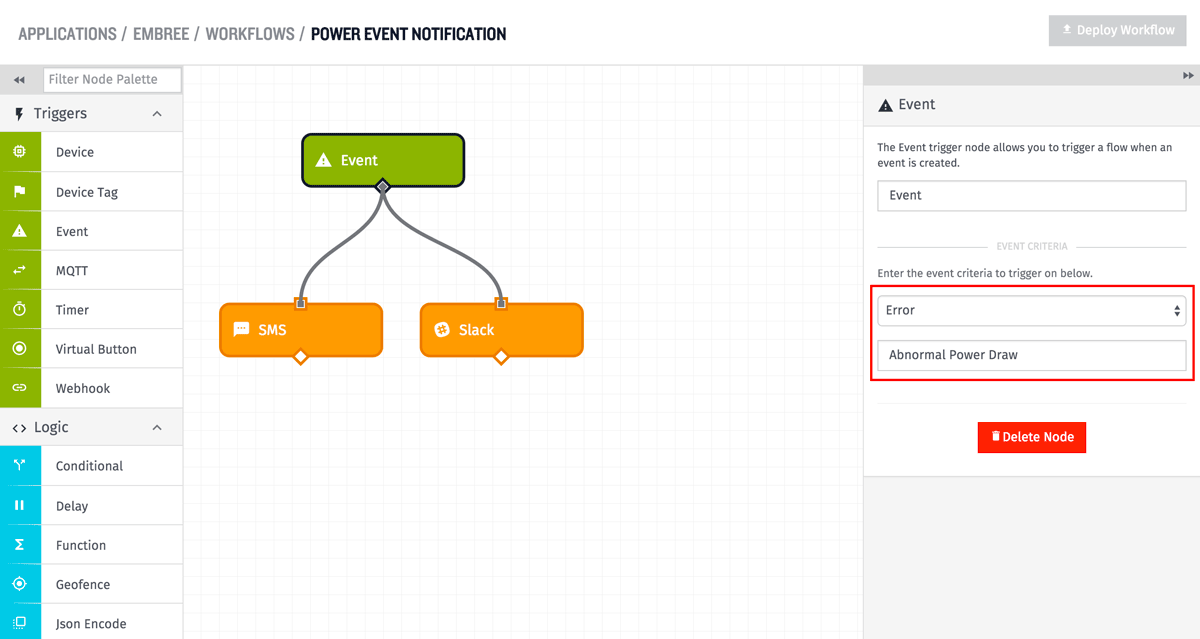
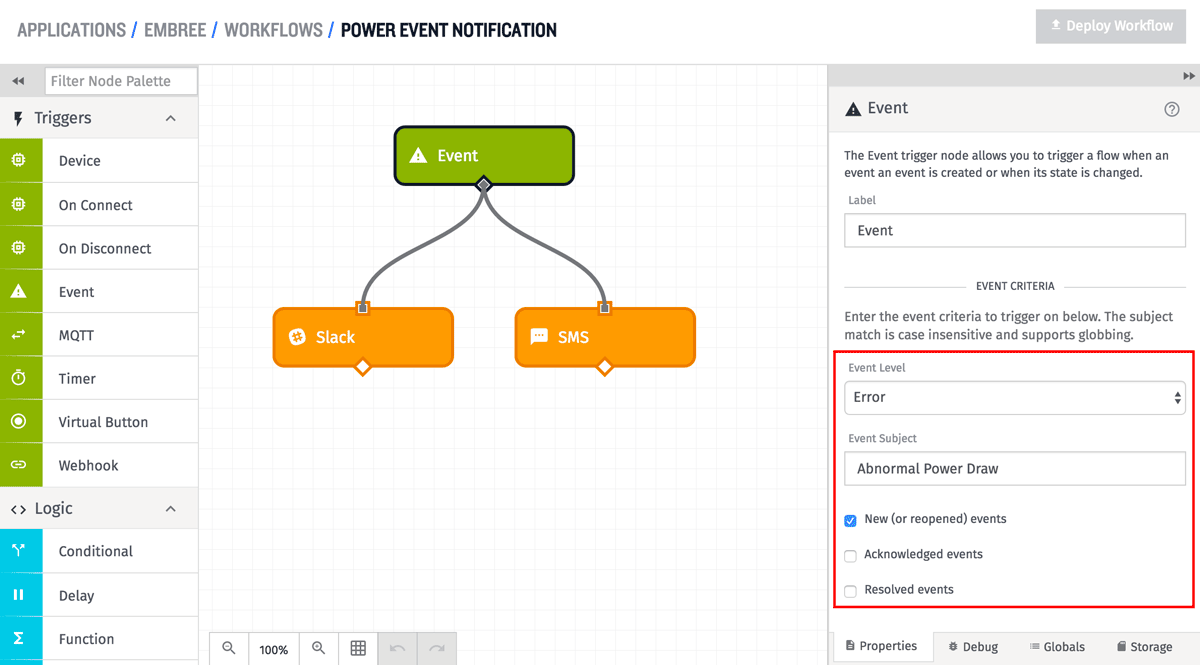
update event trigger docs

diff --git a/docs/workflows/triggers/event.md b/docs/workflows/triggers/event.md
@@ -1,16 +1,16 @@
 # Event Trigger
 
-The event trigger will trigger a workflow whenever a newly created event matches the criteria defined in its configuration.
+The event trigger will trigger a workflow whenever an event is created or changes state that matches the criteria defined in its configuration.
 
 ![Event Trigger](/images/workflows/triggers/event-trigger.png "Event Trigger")
 
 ## Configuration
 
-There are two configurable criteria for matching events, the "level" of the event, and the "subject" of the event.  At least one of the criteria must be specified, so, for example, if "Any Level" is selected for matching the event level, then an event subject must be specified to match against.  Event subjects are matched using exact string matching, so be sure to match capitalization.
+There are three configurable criteria for matching events, the "level" of the event, the "subject" of the event, and the "state" of the event. Event subjects use case insensitive matching, with support for globing.
 
 ![Event Trigger Config](/images/workflows/triggers/event-trigger-config.png "Event Trigger Config")
 
-In the above example, the workflow will be triggered whenever any event is created that is of the "Error" level and has the subject "Abnormal Power Draw".
+In the above example, the workflow will be triggered whenever any event is created or placed in the "new" state that is of the "Error" level and has the subject "Abnormal Power Draw".
 
 ## Payload
 
@@ -20,13 +20,17 @@ The payload will include information about the event on the `data` field, as wel
 {
   "time": <time of the event>,
   "data": {
-    "sourceType": <"flow" or "user" or "device">,
-    "sourceId":   <id of the source>,
-    "level":      <event level - "critical" / "error" / "warning" / "info">,
-    "subject":    <subject of the event>,
-    "message":    <detailed event message>,
-    "state":      "new",
-    "id":         <event id>
+    "id":           <event id>
+    "creationDate": <creation date of the event>
+    "sourceType":   <"flow" or "user" or "device">,
+    "sourceId":     <id of the source>,
+    "level":        <event level - "critical" / "error" / "warning" / "info">,
+    "state":        <current state of the event - "new" / "acknowledged" / "resolved">,
+    "subject":      <subject of the event>,
+    "message":      <detailed event message>,
+    "data":         <structured data attached to the event>,
+    "allUpdates":   <array of all updates to this event>,
+    "latestUpdate": <most recent update to this event>
   },
   "applicationId": <id of the current application>,
   "triggerId": <id of the workflow trigger>,
@@ -41,16 +45,20 @@ For the example workflow above, a specific payload for a triggered workflow migh
 {
   "time": Fri Feb 19 2016 17:26:00 GMT-0500 (EST),
   "data": {
-    "sourceType": "flow",
-    "sourceId":   "56c794a06895b00100cbe84c",
-    "level":      "error",
-    "subject":    "Abnormal Power Draw",
-    "message":    "Draw on device FC12221TG112 has exceeded maximum threshold",
-    "state"  :    "new",
-    "id":         "66c794a06895b00100cbe84c"
+    "id":           "66c794a06895b00100cbe84c"
+    "creationDate": Fri Feb 19 2016 17:26:00 GMT-0500 (EST),
+    "sourceType":   "flow",
+    "sourceId":     "56c794a06895b00100cbe84c",
+    "level":        "error",
+    "state"  :      "new",
+    "subject":      "Abnormal Power Draw",
+    "message":      "Draw on device FC12221TG112 has exceeded maximum threshold",
+    "data":         null,
+    "allUpdates":   [],
+    "latestUpdate": null
   },
   "applicationId": "568beedeb436ab01007be53d",
-  "triggerId": "error/Abnormal Power Draw",
+  "triggerId": "error",
   "triggerType": "event",
   "flowId": "56c74add04d0b50100043381"
 }
